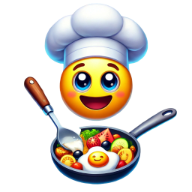
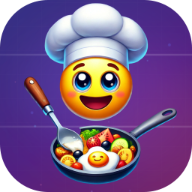
chore: organize files better

diff --git a/src/components/app-sidebar.tsx b/src/components/app-sidebar.tsx
@@ -178,7 +178,6 @@ export function AppSidebar({ ...props }: React.ComponentProps<typeof Sidebar>) {
           <SidebarMenuItem>
             <div className='flex items-center gap-2'>
               <div className='flex aspect-square size-8 items-center justify-center rounded-lg bg-sidebar-primary text-sidebar-primary-foreground'>
-                {/* <Command className="size-4" /> */}
                 <Image
                   src='/logo.png'
                   alt='EmojiMap'

diff --git a/src/app/unauthorized/page.tsx b/src/app/unauthorized/page.tsx
@@ -53,7 +53,7 @@ export default function UnauthorizedPage() {
         <div className='flex flex-col items-center mb-8'>
           <div className={`relative flex items-center justify-center mb-4`}>
             <Image
-              src='/logo-blur.png'
+              src='/logo.png'
               alt='EmojiMap Logo'
               width={140}
               height={140}

diff --git a/src/components/header/header.tsx b/src/components/header/header.tsx
@@ -9,7 +9,7 @@ export function Header() {
         <Link href='/' aria-label='Home page' className='py-2'>
           <div className='flex items-center'>
             <Image
-              src='/logo-no-background.png'
+              src='/logo.png'
               alt='Emoji Map Logo'
               width={56}
               height={56}

diff --git a/README.md b/README.md
@@ -1,7 +1,7 @@
 # EmojiMap Admin Dashboard
 
 <div align="center">
-  <img src="public/logo-blur.png" alt="Emoji Map Logo" width="180" height="180" style="border-radius: 12px; margin-bottom: 20px;" />
+  <img src="public/logo.png" alt="Emoji Map Logo" width="180" height="180" style="border-radius: 12px; margin-bottom: 20px;" />
   <h3>Find places on a map with emoji markers</h3>
   
   <div style="margin-top: 20px;">
